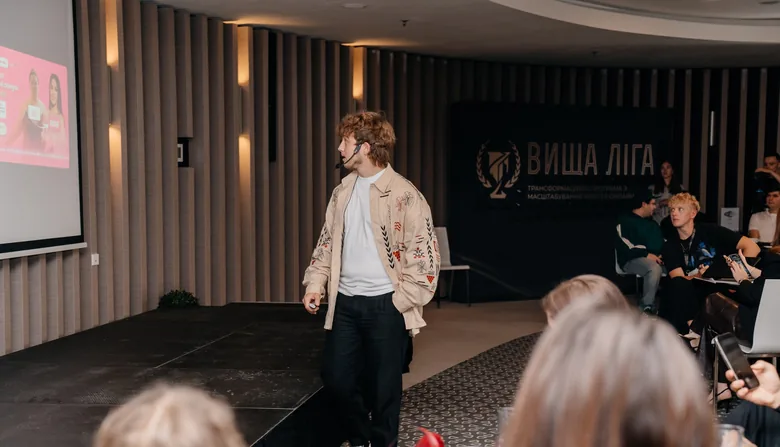
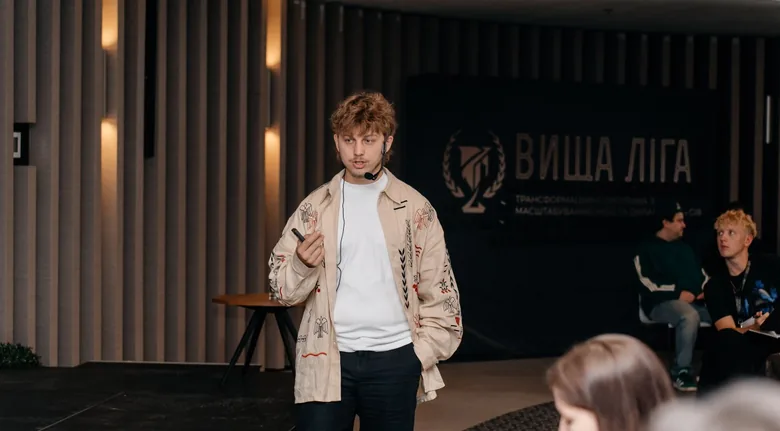
/pre-reg-form-agent: правки першого екрана і маркерів
- класифікатор і заголовок по центру, заголовок у два рядки
- маркер більше не ріже літери: вертикальні відступи плюс запас
  у line-height у заголовку, стіні й заголовку анкети
- три кольори виділення замість одного: жовтий, помаранчевий, блакитний
- у заголовку анкети підсвічено слово «анкету»
- блюр під закріпленою кнопкою знову з маскою, тому згасає градієнтом,
  а не обривається лінією
- інше фото з потоку: Саша крупніше, без потилиць у кадрі

diff --git a/public/agent.css b/public/agent.css
@@ -18,6 +18,8 @@
   --muted:#6B6B6B;
   --line:#E4E4E4;
   --accent:#F2B635;
+  --cyan:#00CAFF;
+  --orange:#F19A2A;
   --r-card:32px;
   --r-field:16px;
   --r-pill:40px;
@@ -30,8 +32,13 @@
 /* золотих плям і золотого тексту тут немає */
 .agent .bg{display:none}
 .agent .gold{background:none;-webkit-text-fill-color:currentColor;color:inherit;animation:none}
-/* жовтий маркер — акцент замість золота */
-.agent .mark{background:var(--accent);box-decoration-break:clone;-webkit-box-decoration-break:clone;padding:0 .18em;border-radius:6px}
+/* Маркер замість золота. Підкладка вища за рядок, тому їй потрібні і вертикальні
+   відступи, і запас у line-height — інакше вона ріже верхівки літер. */
+.agent .mark{background:var(--accent);color:var(--ink);
+  box-decoration-break:clone;-webkit-box-decoration-break:clone;
+  padding:.1em .22em;margin:0 -.04em;border-radius:8px}
+.agent .mark-cyan{background:var(--cyan)}
+.agent .mark-orange{background:var(--orange)}
 
 /* ===== Перший екран ===== */
 .agent .hero{padding:16px 18px 28px}
@@ -42,11 +49,11 @@
 .agent .lang{color:var(--muted);font-family:"e-Ukraine",sans-serif;font-size:12px;font-weight:500}
 .agent .lang.on{color:var(--ink)}
 
-.agent .hero-main{min-height:0;padding:0;text-align:left}
+.agent .hero-main{min-height:0;padding:0;text-align:center}
 .agent .qual{display:block;margin:0 0 18px;padding:12px 18px;border-radius:var(--r-pill);
   background:var(--tint);color:var(--ink);
   font-size:12px;line-height:1.35;font-weight:400;letter-spacing:-0.01em;text-transform:none}
-.agent h1{margin:0;font-size:30px;line-height:1.12;letter-spacing:-0.025em;color:var(--ink);font-weight:400}
+.agent h1{margin:0;font-size:30px;line-height:1.38;letter-spacing:-0.025em;color:var(--ink);font-weight:400}
 
 /* ===== Фото: жива зйомка з потоку, кадр не ріжемо ===== */
 .agent .hero-pic{margin:18px 0 0;border-radius:var(--r-card);overflow:hidden;background:var(--tint)}
@@ -89,7 +96,7 @@
   padding:22px 18px 20px;border-radius:var(--r-card);color:var(--ink);
   background:var(--surface);border:1px solid var(--line);box-shadow:none}
 .agent .rtg-x{display:none}
-.agent .rtg-h{margin:0 0 8px;font-size:24px;line-height:1.14;color:var(--ink)}
+.agent .rtg-h{margin:0 0 10px;font-size:24px;line-height:1.42;color:var(--ink)}
 .agent .rtg-sub{font-size:13px;line-height:1.45;margin-bottom:18px;color:var(--muted)}
 .agent .rtg-l{color:var(--muted);font-weight:400}
 .agent .rtg-in{background:#F2F2F2;border:1px solid transparent;border-radius:var(--r-field);
@@ -105,7 +112,7 @@
 
 /* ===== Стіна відгуків ===== */
 .agent .wall-wrap{padding:0 18px 36px}
-.agent .wall-h{margin:0 auto 18px;max-width:520px;font-size:26px;line-height:1.14;color:var(--ink);text-align:left}
+.agent .wall-h{margin:0 auto 18px;max-width:520px;font-size:26px;line-height:1.42;color:var(--ink);text-align:left}
 .agent .shot{border-radius:var(--r-field);background:var(--surface)}
 .agent .reel{border-radius:var(--r-field);background:#E4E4E4}
 .agent .reel video{background:#E4E4E4}
@@ -114,8 +121,11 @@
 .agent .snd{background:rgba(0,0,0,0.5)}
 
 /* ===== Закріплена кнопка ===== */
-.agent .cta-bg{background:linear-gradient(0deg,rgba(245,245,245,0.96) 0%,rgba(245,245,245,0.72) 55%,rgba(245,245,245,0) 100%);
-  -webkit-mask-image:none;mask-image:none}
+.agent .cta-bg{top:-72px;
+  background:linear-gradient(0deg,rgba(245,245,245,0.97) 0%,rgba(245,245,245,0.86) 38%,rgba(245,245,245,0.5) 68%,rgba(245,245,245,0) 100%);
+  -webkit-backdrop-filter:blur(14px);backdrop-filter:blur(14px);
+  -webkit-mask-image:linear-gradient(0deg,#000 0%,#000 34%,rgba(0,0,0,0.55) 64%,transparent 100%);
+  mask-image:linear-gradient(0deg,#000 0%,#000 34%,rgba(0,0,0,0.55) 64%,transparent 100%)}
 .agent .cta-in{max-width:520px}
 .agent .cta-in .btn{font-size:16px;min-height:60px;padding:0 20px}
 .agent .zoom-bg{background:rgba(0,0,0,0.5)}

diff --git a/public/rtg.js b/public/rtg.js
@@ -19,7 +19,8 @@
 
   var T = {
     ua: {
-      title1: 'Заповни анкету', title2: 'та дізнайся всі подробиці',
+      title1: 'Заповни анкету', title1a: 'Заповни', title1b: 'анкету',
+      title2: 'та дізнайся всі подробиці',
       sub: 'Уважно перевірте правильність даних, включно з ніком в інстаграмі та телеграмі.',
       name: 'Ваше ім’я', tg: 'Нік у телеграмі через @', ig: 'Нік в інстаграмі через @',
       income: 'Ваш середній дохід на місяць?', role: 'Яка ваша роль', multi: 'можна обрати кілька',
@@ -28,7 +29,8 @@
       need: 'Заповніть, будь ласка, усі поля', fail: 'Не вдалося відправити анкету. Спробуйте ще раз за хвилину.'
     },
     ru: {
-      title1: 'Заполни анкету', title2: 'и узнай все подробности',
+      title1: 'Заполни анкету', title1a: 'Заполни', title1b: 'анкету',
+      title2: 'и узнай все подробности',
       sub: 'Внимательно проверьте правильность данных, включая ник в инстаграме и телеграме.',
       name: 'Ваше имя', tg: 'Ник в телеграме через @', ig: 'Ник в инстаграме через @',
       income: 'Ваш средний доход в месяц?', role: 'Какая ваша роль', multi: 'можно выбрать несколько',
@@ -89,7 +91,15 @@
     formView = el('div', 'rtg-form');
     var h = el('h2', 'rtg-h d');
     var h1 = document.createElement('span'); var h2 = el('span', 'gold');
-    h.appendChild(h1); h.appendChild(document.createTextNode(' ')); h.appendChild(h2);
+    if (AGENT) {
+      // «Заполни [анкету]» — друге слово під маркером, як у заголовку на першому екрані
+      var mk = el('span', 'mark mark-orange');
+      h.appendChild(h1); h.appendChild(document.createTextNode(' ')); h.appendChild(mk);
+      h.appendChild(document.createElement('br')); h.appendChild(h2);
+      refs.mark = mk;
+    } else {
+      h.appendChild(h1); h.appendChild(document.createTextNode(' ')); h.appendChild(h2);
+    }
     refs.h1 = h1; refs.h2 = h2;
     card.setAttribute('aria-labelledby', 'rtg-title'); h.id = 'rtg-title';
     var sub = el('p', 'rtg-sub'); refs.sub = sub;
@@ -155,7 +165,12 @@
   function texts() {
     if (!card) return;
     var t = T[lang()], lg = lang();
-    refs.h1.textContent = t.title1; refs.h2.textContent = t.title2;
+    if (AGENT) {
+      refs.h1.textContent = t.title1a; refs.mark.textContent = t.title1b;
+    } else {
+      refs.h1.textContent = t.title1;
+    }
+    refs.h2.textContent = t.title2;
     refs.sub.textContent = t.sub;
     refs.name.label.textContent = t.name; refs.tg.label.textContent = t.tg;
     refs.instagram.label.textContent = t.ig; refs.dohod.label.textContent = t.income;

diff --git a/public/pre-reg-form-agent.html b/public/pre-reg-form-agent.html
@@ -28,12 +28,12 @@
 
     <div class="hero-main">
       <p class="qual">Премиальная программа по масштабированию info/digital/agency-бизнесов</p>
-      <h1 class="d">Сделай <span class="mark">прорыв</span> в агентском бизнесе в 2027</h1>
+      <h1 class="d">Сделай <span class="mark">прорыв</span><br>в агентском бизнесе в 2027</h1>
     </div>
 
     <!-- Жива зйомка з потоку 25–27.09, фото Hanna Holovnia -->
     <div class="hero-pic">
-      <img src="assets/img/agent-hero.webp" alt="" width="780" height="447" decoding="async" fetchpriority="high">
+      <img src="assets/img/agent-hero.webp" alt="" width="780" height="431" decoding="async" fetchpriority="high">
     </div>
 
     <section class="offer" aria-label="Бонус предзаписи">
@@ -62,7 +62,7 @@
 </header>
 
 <main class="wall-wrap">
-  <h2 class="wall-h d">Результаты участников <span class="mark">Высшая Лига</span></h2>
+  <h2 class="wall-h d">Результаты участников <span class="mark mark-cyan">Высшая Лига</span></h2>
   <div class="wall" id="wall"></div>
 </main>
 

diff --git a/public/agent.js b/public/agent.js
@@ -17,15 +17,15 @@
     }
   }
 
-  /* Заголовок не повинен розсипатись на екранах вужчих за макет: зменшуємо кегль,
-     поки він не вкладеться у чотири рядки. */
+  /* Заголовок тримається у двох рядках: перенос стоїть у розмітці, а тут
+     зменшуємо кегль, поки жоден з рядків не почне переноситись сам. */
   function fitH1() {
     var h = document.querySelector('.hero-main h1');
     if (!h) return;
-    for (var px = 30; px >= 18; px--) {
+    for (var px = 32; px >= 16; px--) {
       h.style.fontSize = px + 'px';
-      var lh = parseFloat(getComputedStyle(h).lineHeight) || px * 1.12;
-      if (h.offsetHeight / lh < 4.5) return;
+      var lh = parseFloat(getComputedStyle(h).lineHeight) || px * 1.38;
+      if (h.offsetHeight / lh < 2.5) return;
     }
   }
 
